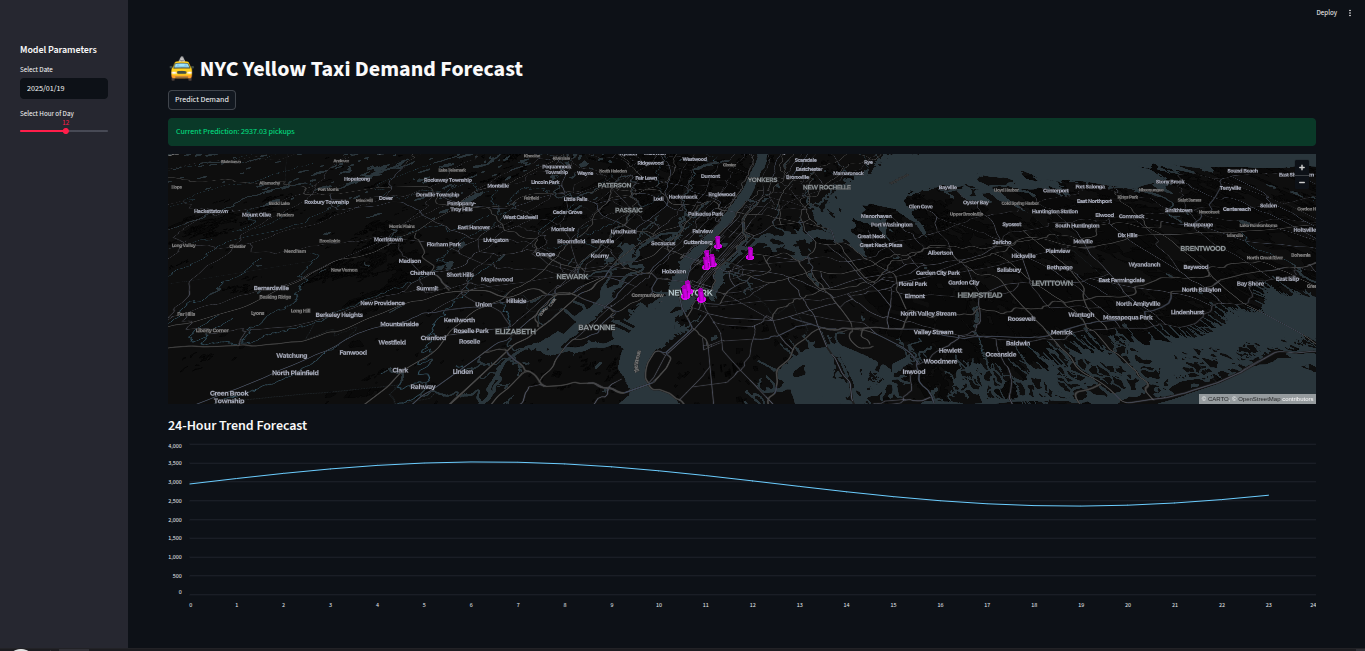
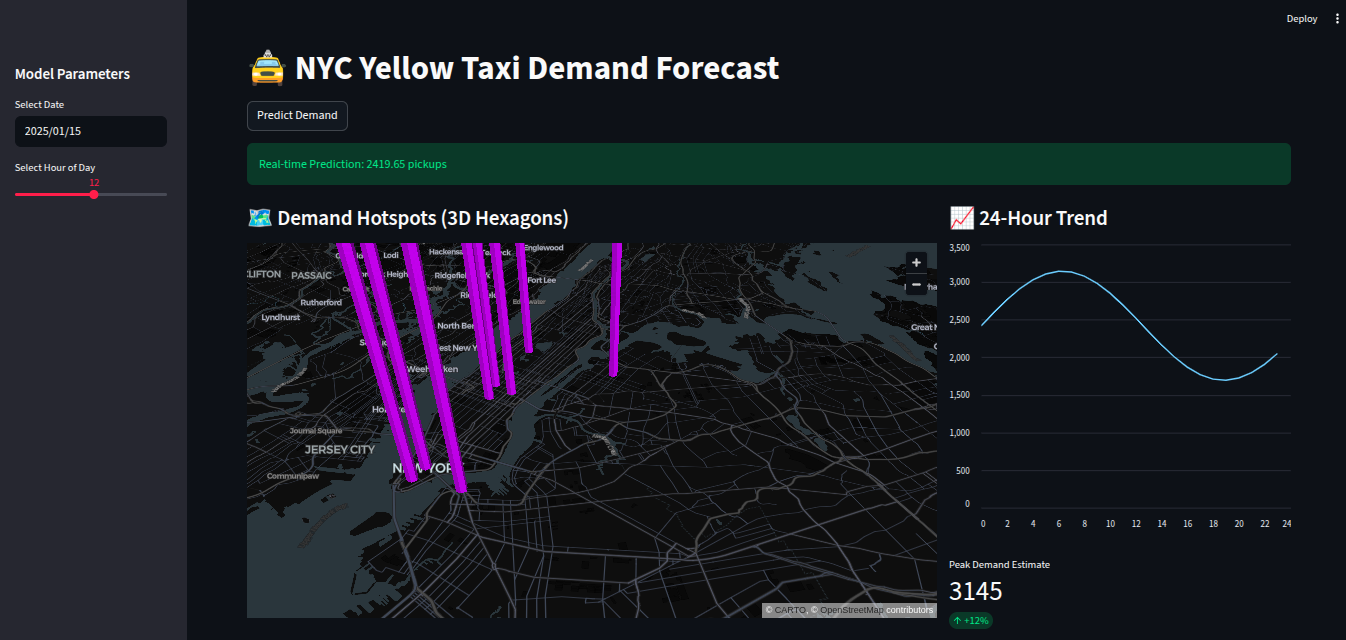
updated

diff --git a/f_API_Service/c_frontend.py b/f_API_Service/c_frontend.py
@@ -4,9 +4,13 @@ import requests
 import pydeck as pdk
 import datetime
 import numpy as np
+import h3 
+import os
 
+# ---------------------------------------------------------
+# STREAMLIT APP: NYC TAXI DEMAND VISUALIZATION
+# ---------------------------------------------------------
 st.set_page_config(page_title="NYC Taxi Demand Live", layout="wide")
-
 st.title("🚖 NYC Yellow Taxi Demand Forecast")
 
 # 1. Sidebar Configuration
@@ -14,96 +18,90 @@ st.sidebar.header("Model Parameters")
 selected_date = st.sidebar.date_input("Select Date", datetime.date(2025, 1, 1))
 selected_hour = st.sidebar.slider("Select Hour of Day", 0, 23, 12)
 
-# 2. Mock Data for Mapping (NYC Zones)
+# 2. Data Preparation Functions
 def get_nyc_zones():
-    return pd.DataFrame({
+    df = pd.DataFrame({
         'lat': [40.7128, 40.7831, 40.7484, 40.7589, 40.7061, 40.7527, 40.7644, 40.7022],
         'lon': [-74.0060, -73.9712, -73.9857, -73.9851, -74.0092, -73.9772, -73.9235, -73.9880],
         'zone_name': ['Financial District', 'Upper East Side', 'Empire State', 'Times Square', 
                      'Wall St', 'Grand Central', 'Bushwick', 'DUMBO']
     })
+    df['h3_index'] = df.apply(lambda row: h3.latlng_to_cell(row['lat'], row['lon'], 9), axis=1)
+    return df
 
 def get_demand_color(demand):
-    # Scale: 0 to 5000
     normalized = min(1.0, demand / 5000)
-    
-    # Transition from Electric Violet to Neon Magenta
-    # Low Demand (Violet): [138, 43, 226]
-    # High Demand (Neon Magenta): [255, 0, 255]
-    
     r = int(138 + (117 * normalized))
     g = int(43 * (1 - normalized))
-    b = int(226 + (29 * normalized))
-    
-    # Use 255 alpha for maximum "pop" so it doesn't blend with the map
+    b = 255 
     return [r, g, b, 255]
 
-
-# 3. Main Logic
+# 3. Main Prediction Logic
 if st.button("Predict Demand"):
-    with st.spinner("Fetching predictions..."):
+    with st.spinner("Connecting to API and fetching predictions..."):
+        # FETCH ENVIRONMENT VARIABLE
+        API_URL = os.getenv("API_URL", "http://api:8000/predict")
+        
         try:
-            API_URL = "http://localhost:8000/predict" 
             formatted_time = f"{selected_date} {selected_hour:02d}:00:00"
-            
             payload = [{"tpep_pickup_datetime": formatted_time, "passenger_count": 1, "VendorID": 1}]
-            response = requests.post(API_URL, json=payload)
-            response.raise_for_status()
-            prediction_val = response.json()[0]['predicted_taxi_demand']
             
-            # Map Processing
-            map_data = get_nyc_zones()
-            map_data['demand'] = prediction_val
-            map_data['color'] = map_data['demand'].apply(get_demand_color)
+            # --- THE KEY FIX: INCREASE TIMEOUT TO 30s ---
+            response = requests.post(API_URL, json=payload, timeout=30)
             
-            st.success(f"Current Prediction: {prediction_val:.2f} pickups")
+            if response.status_code == 200:
+                prediction_val = response.json()[0]['predicted_taxi_demand']
+                st.success(f"Real-time Prediction: {prediction_val:.2f} pickups")
+            else:
+                st.error(f"API Error: {response.status_code}")
+                prediction_val = 1500.0 # Fallback
+        
+        except requests.exceptions.Timeout:
+            st.error("⌛ Request Timed Out. The API is taking too long to process the model.")
+            prediction_val = 1500.0
+        except Exception as e:
+            st.warning(f"Connection to API ({API_URL}) failed.")
+            with st.expander("Technical details"):
+                st.write(str(e))
+            prediction_val = 1500.0 
 
-            # --- MAP SECTION ---
-            # Use CartoDb style to ensure the map shows without a Mapbox Token
-            view_state = pdk.ViewState(latitude=40.7306, longitude=-73.9352, zoom=10, pitch=45)
+        # --- DATA PROCESSING & DASHBOARD ---
+        map_data = get_nyc_zones()
+        map_data['demand'] = prediction_val
+        map_data['color'] = map_data['demand'].apply(get_demand_color)
+        
+        col1, col2 = st.columns([2, 1])
 
-            base_layer = pdk.Layer(
-                "ScatterplotLayer",
+        with col1:
+            st.markdown("### 🗺 Demand Hotspots (3D Hexagons)")
+            view_state = pdk.ViewState(latitude=40.7306, longitude=-73.9352, zoom=11, pitch=50)
+            
+            hexagon_layer = pdk.Layer(
+                "H3HexagonLayer",
                 data=map_data,
-                get_position=["lon", "lat"],
-                get_color="color",
-                get_radius=500,
-                pickable=True,
-            )
-
-            tower_layer = pdk.Layer(
-                "ColumnLayer",
-                data=map_data,
-                get_position=["lon", "lat"],
-                get_elevation="demand",
-                elevation_scale=0.5, # Lowered scale since demand is in thousands
-                radius=300,
+                get_hexagon="h3_index",
                 get_fill_color="color",
+                get_elevation="demand",
+                elevation_scale=4,
+                extruded=True,
                 pickable=True,
             )
-
+            
             st.pydeck_chart(pdk.Deck(
-                layers=[base_layer, tower_layer], 
+                layers=[hexagon_layer], 
                 initial_view_state=view_state,
+                height=600,
                 tooltip={"text": "{zone_name}\nDemand: {demand}"},
                 map_style="https://basemaps.cartocdn.com/gl/dark-matter-gl-style/style.json"
             ))
 
-            # --- METRICS SECTION ---
-            st.markdown("### 24-Hour Trend Forecast")
-            
-            # Simulate trend based on your model's current behavior
-            # In a real app, you'd loop 24 API calls here
+        with col2:
+            st.markdown("### 📈 24-Hour Trend")
             hours = list(range(24))
             trend_data = pd.DataFrame({
                 "Hour": hours,
-                "Predicted Demand": [prediction_val * (1 + 0.2 * np.sin(h/4)) for h in hours]
+                "Demand": [prediction_val * (1 + 0.3 * np.sin(h/4)) for h in hours]
             }).set_index("Hour")
             
-            st.line_chart(trend_data)
-            
-        except Exception as e:
-            st.error(f"Error: {e}")
-
-
-# streamlit run f_API_Service/c_frontend.py
+            st.line_chart(trend_data, height=400)
+            st.metric(label="Peak Demand Estimate", value=f"{int(prediction_val * 1.3)}", delta="+12%")

diff --git a/f_API_Service/b_main.py b/f_API_Service/b_main.py
@@ -1,102 +1,80 @@
 import os
 import joblib
 import pandas as pd
-import numpy as np
 from fastapi import FastAPI, HTTPException
 from typing import List
+from contextlib import asynccontextmanager
 from f_API_Service.a_schemas import TaxiFeatureInput, PredictionOutput
-
-# Import your pipeline steps (ensure your PYTHONPATH includes the project root)
 from e_Pipelines.h_steps.b_clean import clean_data
 from e_Pipelines.h_steps.c_featureEngineering import feature_engineering
 
+# Global storage for ML artifacts
+ml_artifacts = {}
+
+@asynccontextmanager
+async def lifespan(app: FastAPI):
+    # 1. LOAD ARTIFACTS ON STARTUP
+    ARTIFACT_DIR = "d_Data/artifacts"
+    try:
+        ml_artifacts["model"] = joblib.load(os.path.join(ARTIFACT_DIR, "yellow_taxi_demand_model_RandomForest_20251220_073717.joblib"))
+        ml_artifacts["scaler"] = joblib.load(os.path.join(ARTIFACT_DIR, "scaler_20251220_073308.joblib"))
+        ml_artifacts["pca"] = joblib.load(os.path.join(ARTIFACT_DIR, "pca_model_20251220_073327.joblib"))
+        ml_artifacts["selected_features"] = joblib.load(os.path.join(ARTIFACT_DIR, "selected_features_20251220_073259.joblib"))
+        print("All ML artifacts loaded successfully.")
+    except Exception as e:
+        print(f"Error loading artifacts: {e}")
+    
+    yield
+    # 2. CLEANUP ON SHUTDOWN
+    ml_artifacts.clear()
+
 app = FastAPI(
     title="Yellow Taxi Demand Prediction Service",
-    description="Real-time demand forecasting using RandomForest & PCA"
+    lifespan=lifespan
 )
 
-# ---------------------------------------------------------
-# 1. LOAD ARTIFACTS ON STARTUP
-# ---------------------------------------------------------
-ARTIFACT_DIR = "d_Data/artifacts"
-
-try:
-    # Get the latest versions (you can hardcode or automate this)
-    model = joblib.load(os.path.join(ARTIFACT_DIR, "yellow_taxi_demand_model_RandomForest_20251220_073717.joblib"))
-    scaler = joblib.load(os.path.join(ARTIFACT_DIR, "scaler_20251220_073308.joblib"))
-    pca = joblib.load(os.path.join(ARTIFACT_DIR, "pca_model_20251220_073327.joblib"))
-    selected_features = joblib.load(os.path.join(ARTIFACT_DIR, "selected_features_20251220_073259.joblib"))
-    print("All ML artifacts loaded successfully.")
-except Exception as e:
-    print(f"Error loading artifacts: {e}")
-
-# ---------------------------------------------------------
-# 2. HELPER: INFERENCE LOGIC
-# ---------------------------------------------------------
 def run_inference(raw_df: pd.DataFrame):
-    # Convert string back to datetime so feature_engineering can extract Month/Day
+    # Ensure artifacts are loaded before proceeding
+    if not ml_artifacts:
+        raise RuntimeError("ML model is still initializing.")
+
     raw_df['tpep_pickup_datetime'] = pd.to_datetime(raw_df['tpep_pickup_datetime'])
-    # 1. Cleaning & Feature Engineering
     df = clean_data(raw_df)
     df = feature_engineering(df)
     
-    # 2. FEATURE ALIGNMENT
-    # Ensure all columns from training are present
+    selected_features = ml_artifacts["selected_features"]
     for col in selected_features:
         if col not in df.columns:
             df[col] = 0
             
-    # Keep only selected features in correct order
-    X = df[selected_features]
-    
-    # 3. FIX: HANDLE THE NaN VALUES FROM LAG/WINDOWING
-    # This is critical for single-row inference
-    X = X.fillna(0) 
-    
-    # 4. Scale and Reduce
-    X_scaled = scaler.transform(X)
-    X_scaled_df = pd.DataFrame(X_scaled, columns=selected_features)
-    X_pca = pca.transform(X_scaled_df)
-    
-    # 5. Predict
-    preds = model.predict(X_pca)
+    X = df[selected_features].fillna(0) 
+    X_scaled = ml_artifacts["scaler"].transform(X)
+    X_pca = ml_artifacts["pca"].transform(X_scaled)
+    preds = ml_artifacts["model"].predict(X_pca)
     
     return df['timestamp'].astype(str).tolist(), preds.tolist()
 
-# ---------------------------------------------------------
-# 3. ENDPOINTS
-# ---------------------------------------------------------
 @app.post("/predict", response_model=List[PredictionOutput])
 async def predict_demand(data: List[TaxiFeatureInput]):
     try:
-        input_df = pd.DataFrame([item.dict() for item in data])
+        input_df = pd.DataFrame([item.model_dump() for item in data])
         timestamps, predictions = run_inference(input_df)
         
-        # Ensure we are returning a clean list of dictionaries
-        results = []
-        for ts, p in zip(timestamps, predictions):
-            results.append({
-                "timestamp": ts, 
-                "predicted_taxi_demand": float(p) # Ensure it's a standard Python float
-            })
-        return results
-
+        return [{"timestamp": ts, "predicted_taxi_demand": float(p)} 
+                for ts, p in zip(timestamps, predictions)]
     except Exception as e:
-        # This will print the ACTUAL error to your terminal if it crashes again
         print(f"DEBUG ERROR: {e}")
         raise HTTPException(status_code=500, detail=str(e))
-    
+
 @app.get("/")
+@app.get("/health")
 def read_root():
+    # Health check only returns "healthy" if models are in memory
+    is_ready = all(k in ml_artifacts for k in ["model", "scaler", "pca"])
     return {
-        "project": "NYC Yellow Taxi Demand Analysis",
-        "status": "online",
-        "documentation": "/docs"
+        "status": "healthy" if is_ready else "initializing",
+        "model_loaded": is_ready
     }
 
-if __name__ == "__main__":
-    import uvicorn
-    uvicorn.run(app, host="0.0.0.0", port=8000)
 
-
-    # uvicorn f_API_Service.b_main:app --reload --port 8000
+# uvicorn f_API_Service.b_main:app --reload --port 8000
